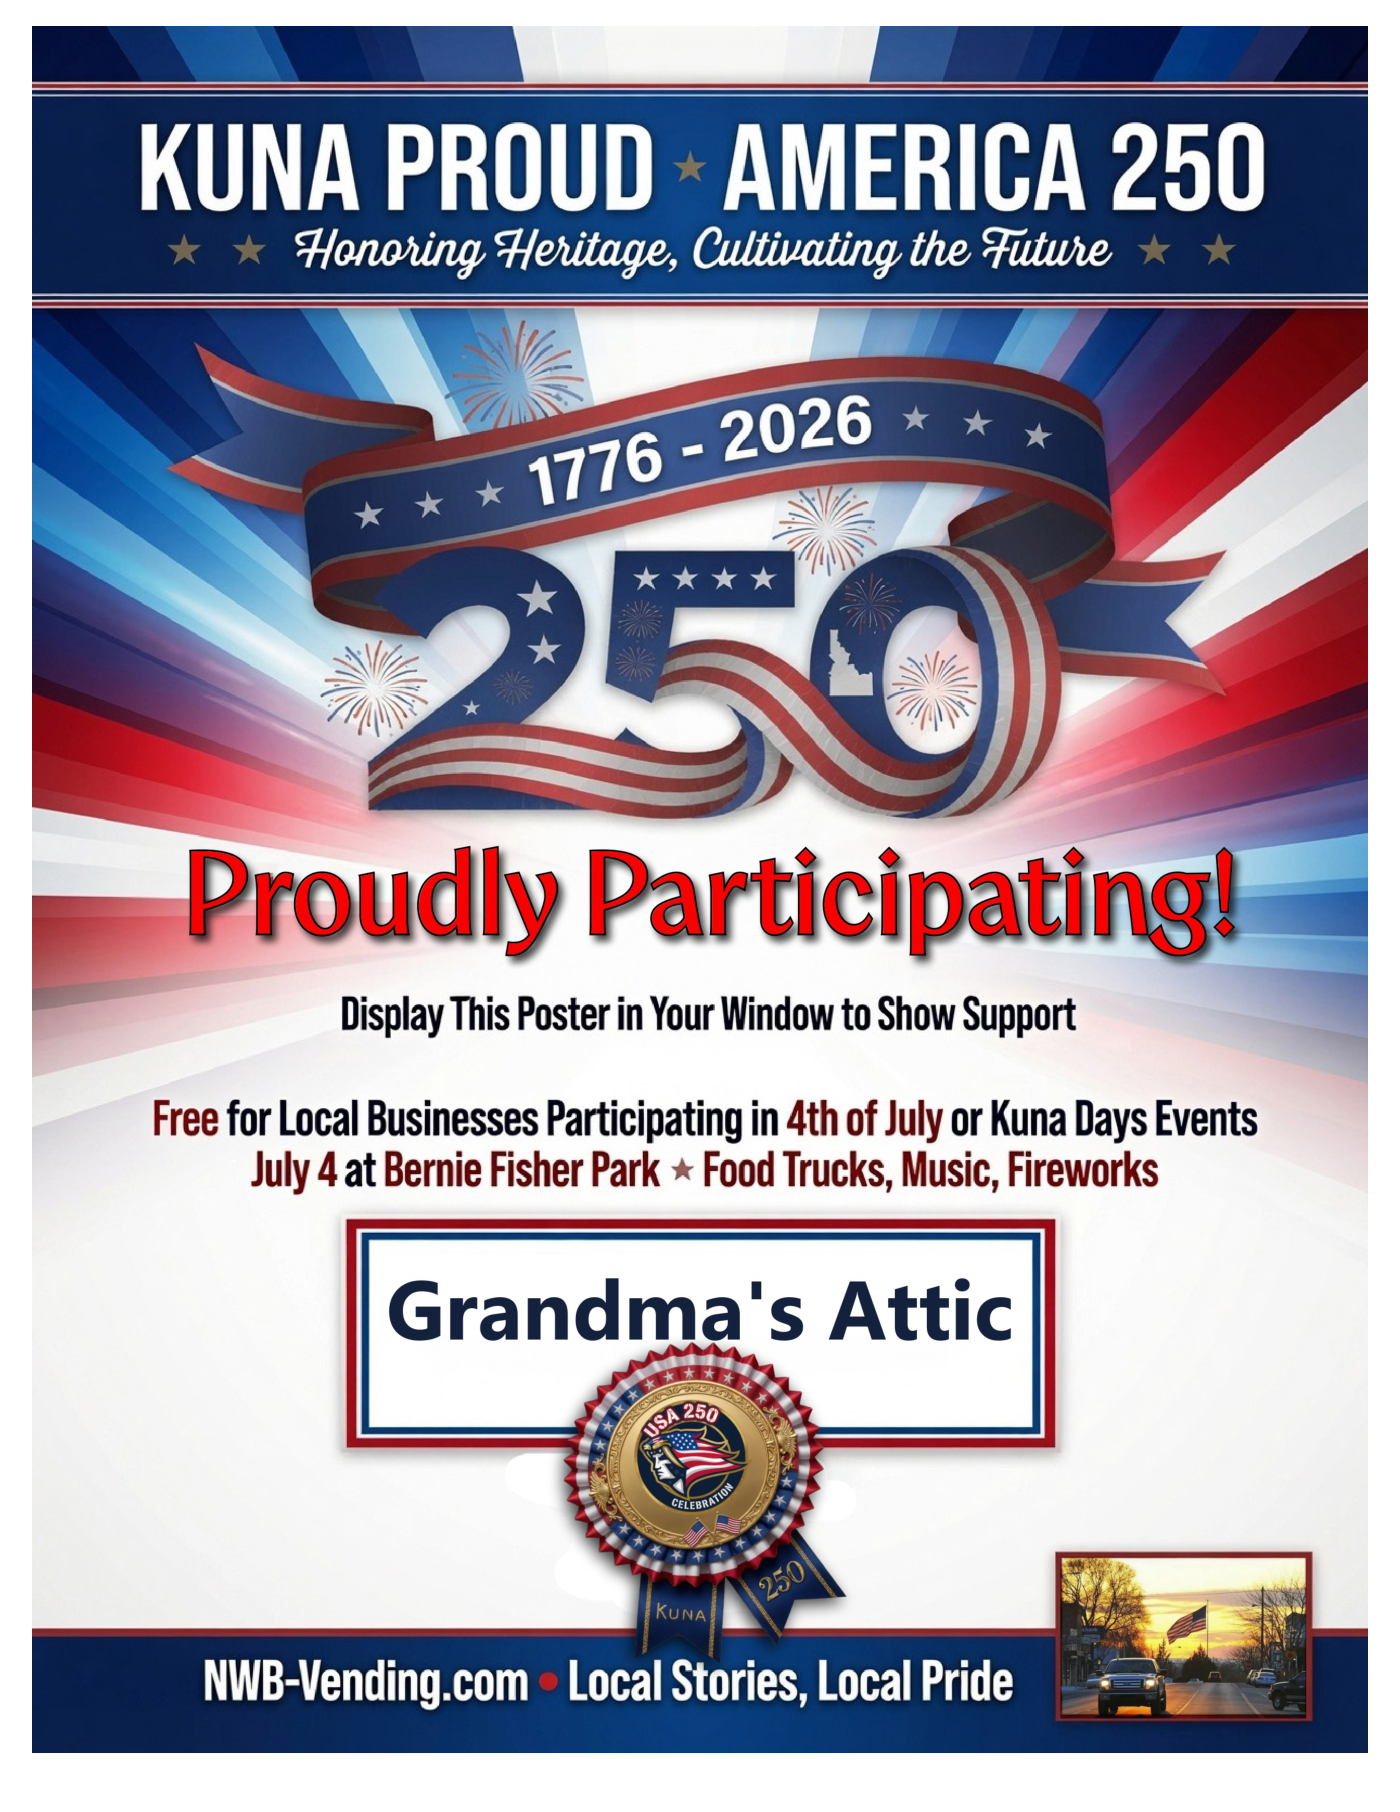
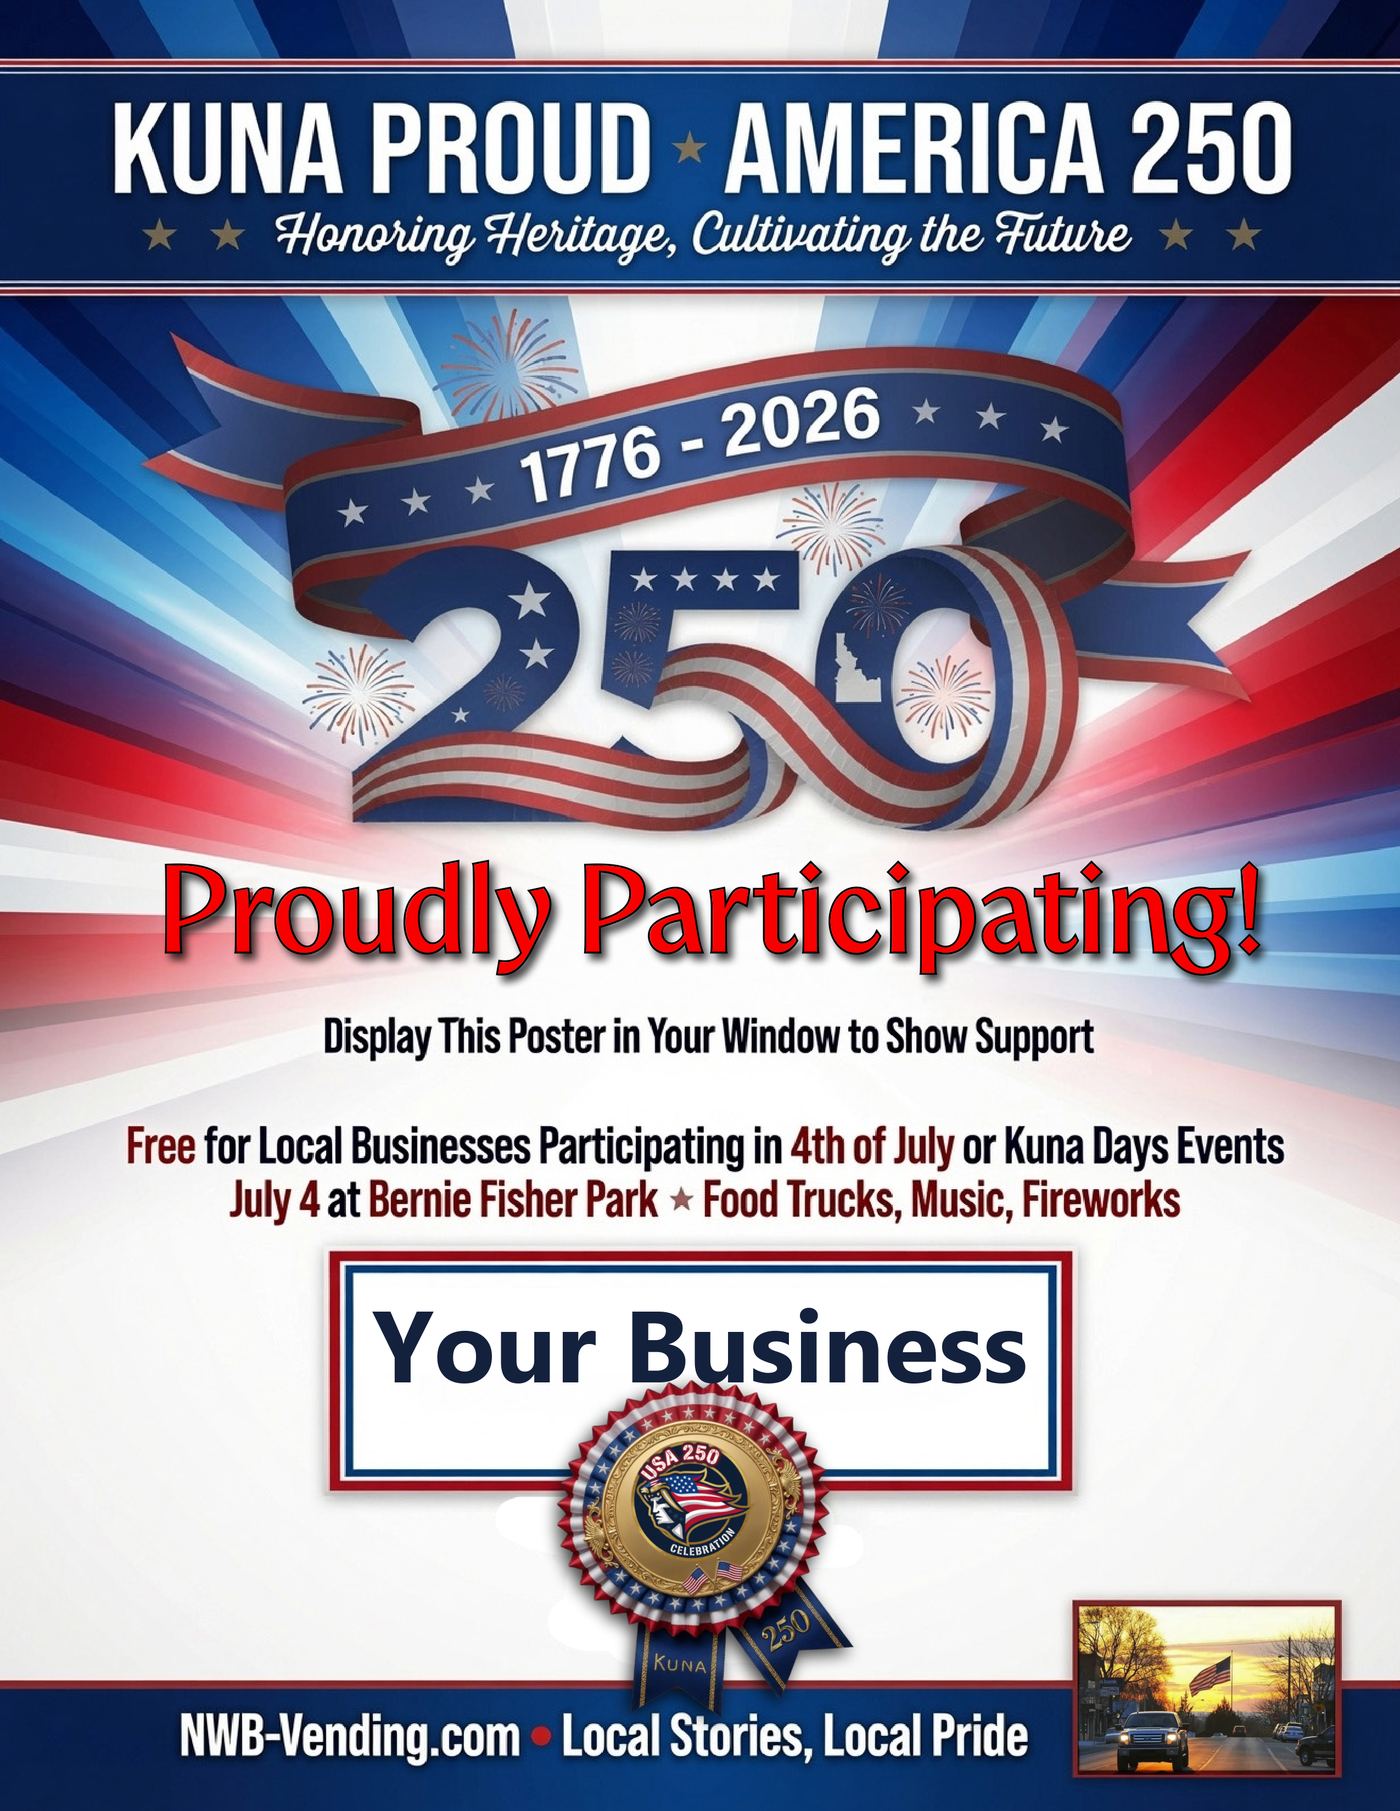
Free tier gallery example: Your Business instead of Grandma's Attic

diff --git a/2nd-pages/america-250/gallery/index.html b/2nd-pages/america-250/gallery/index.html
@@ -148,14 +148,14 @@
 
       <article class="gallery-compare">
         <p class="gallery-tier-tag gallery-tier-free">Free · Community Tier · July 4 / 250</p>
-        <h2>Grandma's Attic</h2>
-        <p class="gallery-blurb">Example from the free batch. Your business name on the 250 template. One page. Front only. That is what we email.</p>
+        <h2>Your Business</h2>
+        <p class="gallery-blurb">Free tier example. Your business name on the 250 template. One page. Front only. That is what we email.</p>
         <div class="gallery-view" data-gallery-view>
           <div class="gallery-stage" data-lightbox tabindex="0" role="button" aria-label="Enlarge free tier 250 display flyer">
             <img class="gallery-slide is-active" data-slide="window"
               src="../../../assets/gallery/250/free-window-display.png"
               data-full="../../../assets/gallery/250/free-window-full.png"
-              alt="Grandma's Attic, free tier 250 display flyer" width="1400" height="1812">
+              alt="Your Business, free tier 250 display flyer example" width="1400" height="1812">
           </div>
         </div>
       </article>

diff --git a/assets/gallery/build_thumbs.py b/assets/gallery/build_thumbs.py
@@ -62,9 +62,15 @@ def main() -> None:
     from_pdf_page(PRINTABLES / "NWB-Both-Final.pdf", 0, "nwb-window")
     from_pdf_page(PRINTABLES / "NWB-Both-Final.pdf", 1, "nwb-story")
 
-    free_pdf = PRINTABLES / "FedEx-Print" / "print-these" / "01 - Grandma's Attic.pdf"
-    from_pdf_page(free_pdf, 0, "free-window")
-    from_pdf_page(free_pdf, 1, "free-back")
+    import sys
+
+    sys.path.insert(0, str(Path(r"D:\GrokBuild\experiments\250 Parade\06-process\delivery")))
+    from fulfill_free_customer import stamp_front
+
+    free_img = stamp_front("Your Business")
+    save_png(resize_width(free_img, DISPLAY_W), OUT / "free-window-display.png")
+    save_png(resize_width(free_img, LIGHTBOX_W), OUT / "free-window-full.png")
+    print("free-window", free_img.size)
 
     pairs = [
         (PRINTABLES / "Kettle Korn - window.pdf", "kettle-korn-window"),